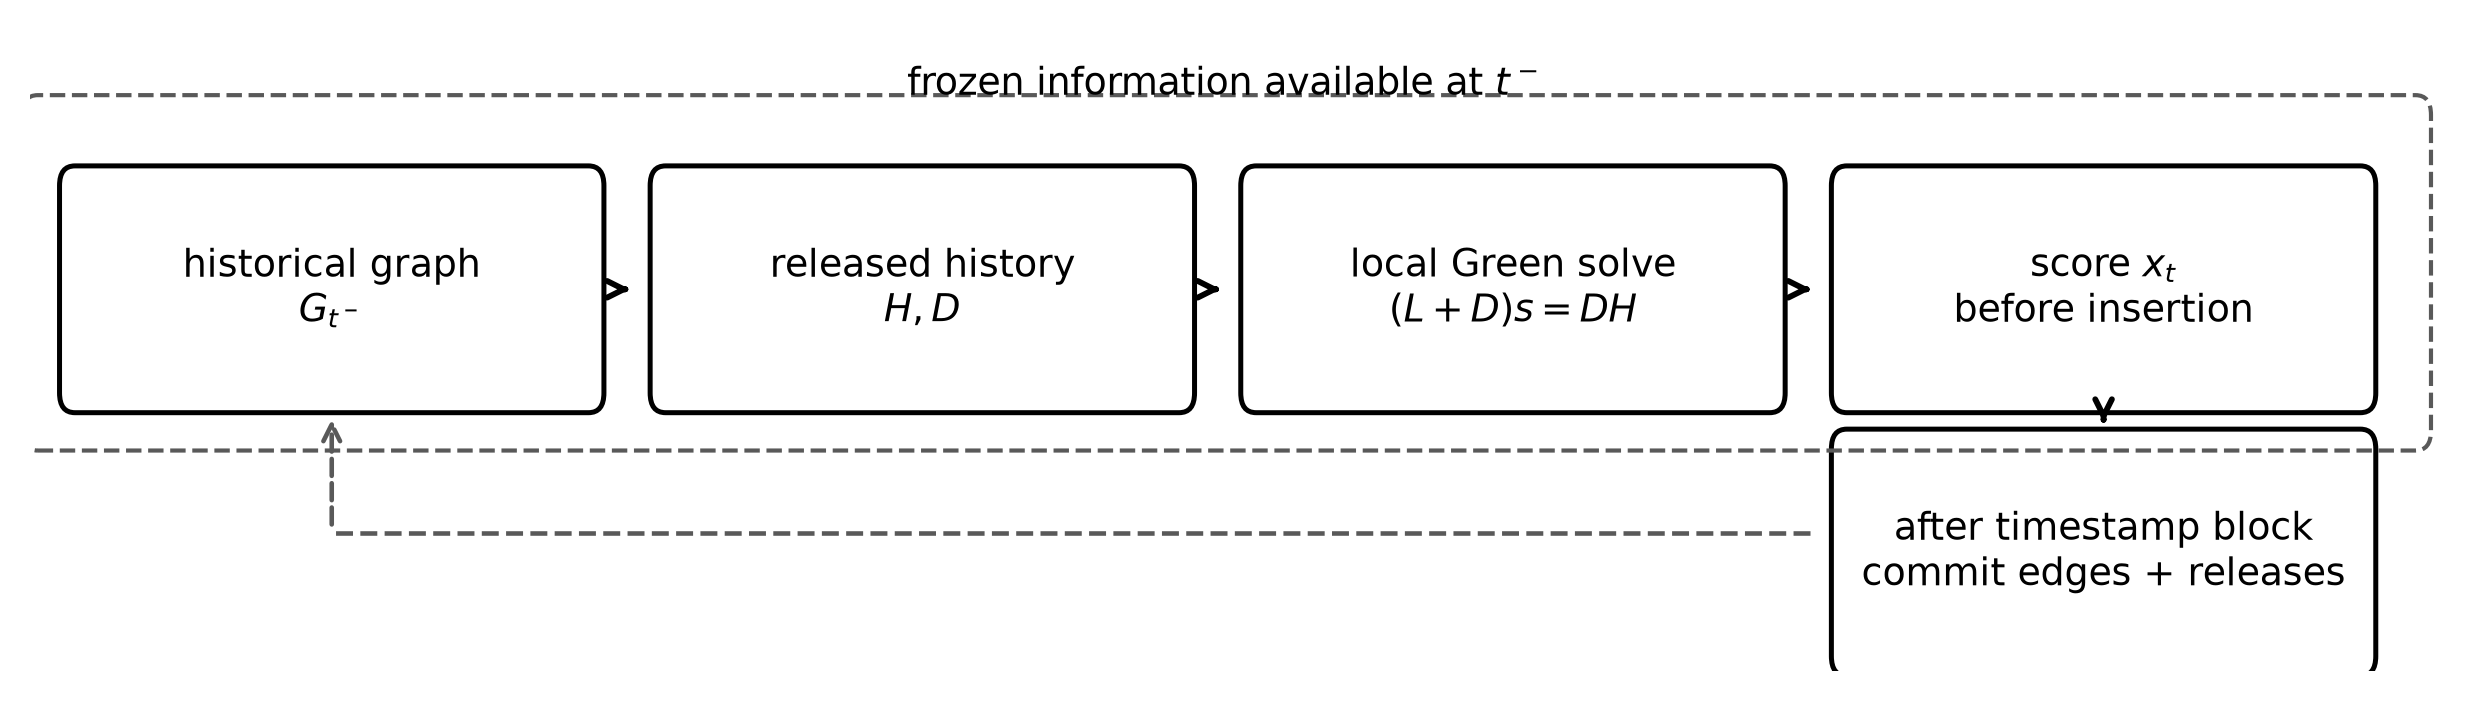
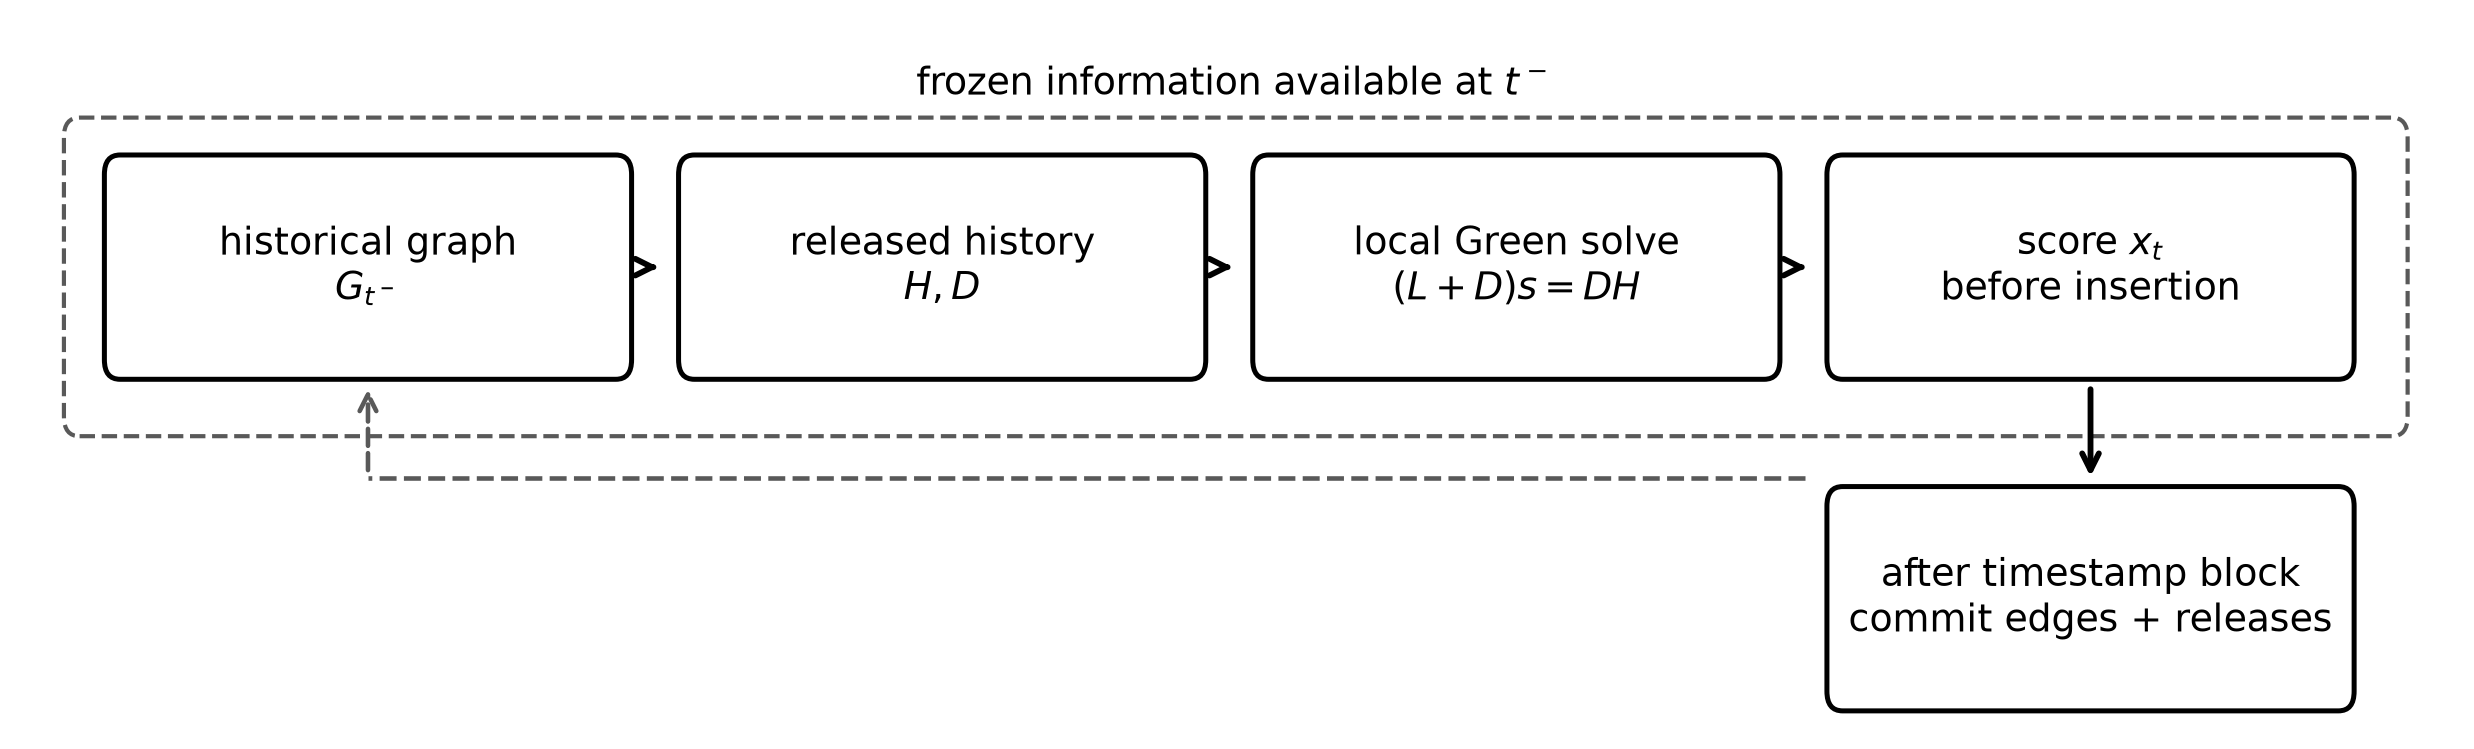
Refine README scheme layout

Changed region(s): [[0.0, 0.0899, 0.996, 0.9586], [0.3112, 0.2996, 0.4357, 0.4494], [0.0622, 0.2996, 0.2179, 0.4494]]

diff --git a/scripts/plot_green_field_scheme.py b/scripts/plot_green_field_scheme.py
@@ -25,48 +25,49 @@ def add_box(ax, xy, text, width=2.15, height=0.7):
 
 def make_scheme(output_dir: Path) -> tuple[Path, Path]:
     output_dir.mkdir(parents=True, exist_ok=True)
-    fig, ax = plt.subplots(figsize=(8.2, 2.25))
+    fig, ax = plt.subplots(figsize=(8.2, 2.45))
     ax.set_axis_off()
 
-    y = 0.82
-    width = 2.05
-    height = 0.68
-    xs = [0.15, 2.45, 4.75, 7.05]
+    y_top = 1.08
+    y_commit = 0.06
+    width = 1.95
+    height = 0.62
+    xs = [0.32, 2.52, 4.72, 6.92]
 
-    add_box(ax, (xs[0], y), "historical graph\n$G_{t^-}$", width, height)
-    add_box(ax, (xs[1], y), "released history\n$H, D$", width, height)
-    add_box(ax, (xs[2], y), "local Green solve\n$(L+D)s=DH$", width, height)
-    add_box(ax, (xs[3], y), "score $x_t$\nbefore insertion", width, height)
-    add_box(ax, (xs[3], 0.02), "after timestamp block\ncommit edges + releases", width, height)
+    add_box(ax, (xs[0], y_top), "historical graph\n$G_{t^-}$", width, height)
+    add_box(ax, (xs[1], y_top), "released history\n$H, D$", width, height)
+    add_box(ax, (xs[2], y_top), "local Green solve\n$(L+D)s=DH$", width, height)
+    add_box(ax, (xs[3], y_top), "score $x_t$\nbefore insertion", width, height)
+    add_box(ax, (xs[3], y_commit), "after timestamp block\ncommit edges + releases", width, height)
 
     for i in range(3):
         ax.annotate(
             "",
-            xy=(xs[i + 1] - 0.08, y + height / 2),
-            xytext=(xs[i] + width + 0.08, y + height / 2),
+            xy=(xs[i + 1] - 0.08, y_top + height / 2),
+            xytext=(xs[i] + width + 0.08, y_top + height / 2),
             arrowprops=dict(arrowstyle="->", linewidth=1.4, color="black"),
         )
     ax.annotate(
         "",
-        xy=(xs[3] + width / 2, 0.02 + height + 0.03),
-        xytext=(xs[3] + width / 2, y - 0.03),
+        xy=(xs[3] + width / 2, y_commit + height + 0.04),
+        xytext=(xs[3] + width / 2, y_top - 0.04),
         arrowprops=dict(arrowstyle="->", linewidth=1.4, color="black"),
     )
-    feedback_y = 0.42
+    feedback_y = 0.74
     past_center = xs[0] + width / 2
     commit_left = xs[3] - 0.12
     ax.plot([commit_left, past_center], [feedback_y, feedback_y], color="0.35", linestyle="--", linewidth=1.1)
     ax.annotate(
         "",
-        xy=(past_center, y - 0.03),
+        xy=(past_center, y_top - 0.04),
         xytext=(past_center, feedback_y),
         arrowprops=dict(arrowstyle="->", linewidth=1.1, color="0.35", linestyle="--"),
     )
 
     outer = FancyBboxPatch(
-        (0.02, 0.72),
-        9.28,
-        0.98,
+        (0.18, 0.92),
+        8.88,
+        0.88,
         boxstyle="round,pad=0.05,rounding_size=0.06",
         linewidth=1.0,
         edgecolor="0.35",
@@ -74,11 +75,11 @@ def make_scheme(output_dir: Path) -> tuple[Path, Path]:
         linestyle="--",
     )
     ax.add_patch(outer)
-    ax.text(4.66, 1.78, "frozen information available at $t^-$", ha="center", va="center", fontsize=9)
+    ax.text(4.62, 1.95, "frozen information available at $t^-$", ha="center", va="center", fontsize=9)
 
-    ax.set_xlim(0, 9.45)
-    ax.set_ylim(0, 1.95)
-    fig.tight_layout(pad=0.4)
+    ax.set_xlim(0, 9.25)
+    ax.set_ylim(0, 2.12)
+    fig.tight_layout(pad=0.55)
 
     png_path = output_dir / "green_field_scheme.png"
     pdf_path = output_dir / "green_field_scheme.pdf"
